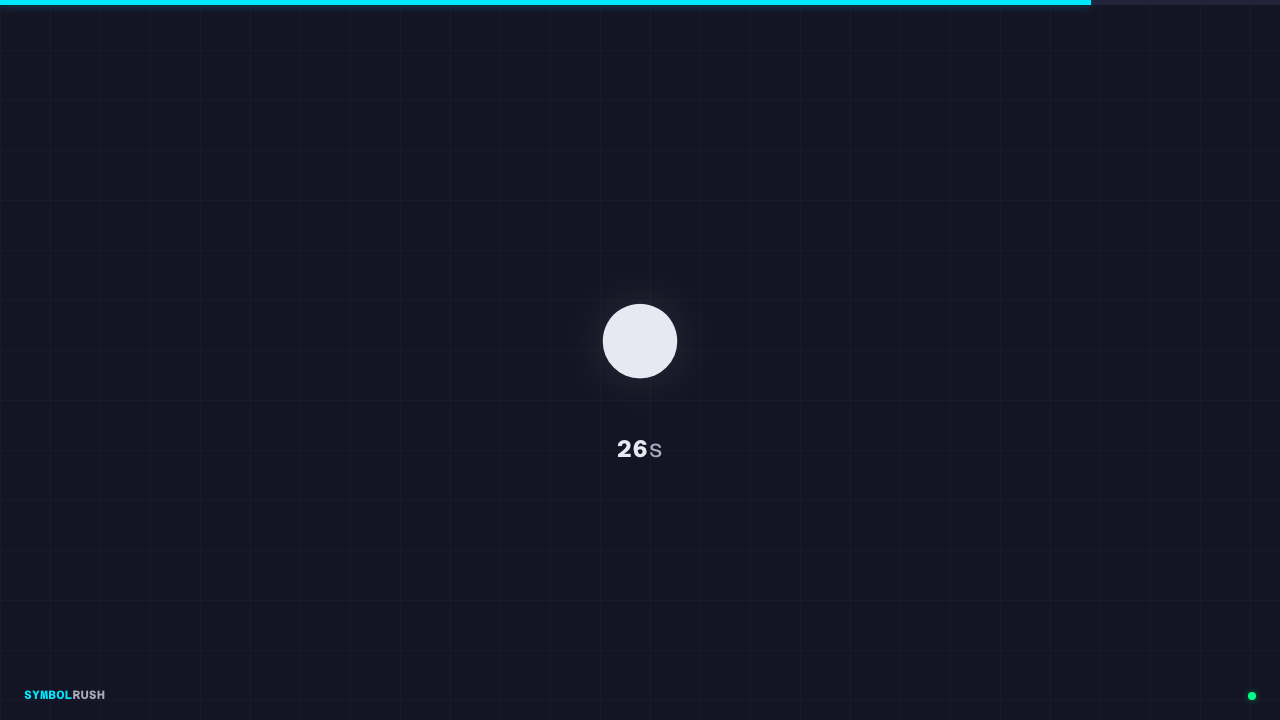
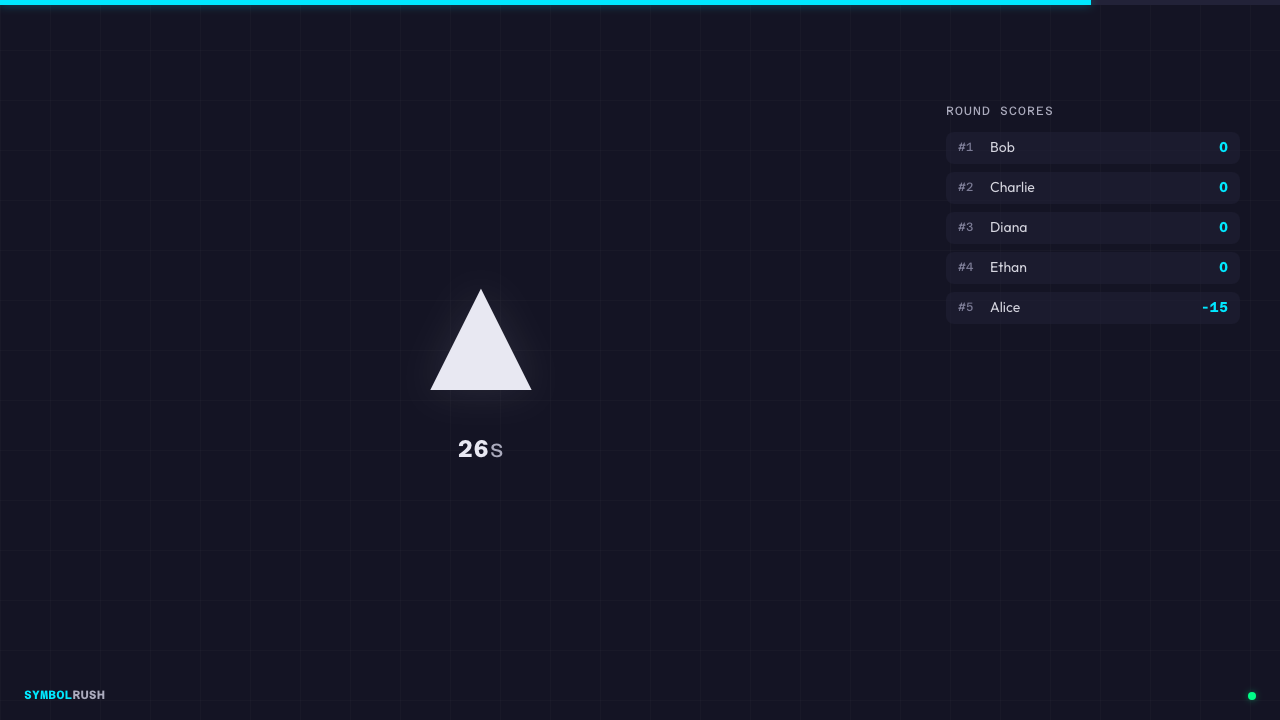
Fix PS sidebar, player grid, adaptive results, host scroll
- PS playing phase: 3/4 + 1/4 layout with live round scores sidebar
  (handles session:scores-update messages)
- Player grid: justify-between layout reduces empty space above buttons
- Player results: adaptive message based on score
  ("Nice run!" / "Warm up round!" / "Keep going!")
- Host panel: collapse Join Link + PS sections during play/results
  to keep controls above the fold
- Update E2E test assertions for adaptive result messages

diff --git a/pages/host/index.vue b/pages/host/index.vue
@@ -158,36 +158,37 @@ useHead({ title: 'Symbol Rush — Host Panel' })
           <GameStatusBanner :status="phase" :round-count="roundCount" />
         </UCard>
 
-        <!-- Join Link -->
-        <UCard variant="subtle" :ui="{ body: 'p-4' }" class="mb-3">
-          <h2 class="text-xs font-semibold text-neutral-300 uppercase tracking-widest mb-3">Join Link</h2>
-          <div class="flex gap-2">
-            <UButton variant="soft" color="neutral" size="sm" icon="i-lucide-copy" @click="copyUrl(joinUrl, 'Join link')">
-              Copy
-            </UButton>
-            <UButton v-if="canShare" variant="soft" color="neutral" size="sm" icon="i-lucide-share" @click="shareUrl(joinUrl, 'Join Symbol Rush', `Join Symbol Rush! Room: ${roomCode}`)">
-              Share
-            </UButton>
-          </div>
-          <p class="font-mono text-xs text-neutral-500 mt-2 break-all">{{ joinUrl }}</p>
-        </UCard>
+        <!-- Join Link + PS (collapsed during play/results) -->
+        <template v-if="phase === 'lobby'">
+          <UCard variant="subtle" :ui="{ body: 'p-4' }" class="mb-3">
+            <h2 class="text-xs font-semibold text-neutral-300 uppercase tracking-widest mb-3">Join Link</h2>
+            <div class="flex gap-2">
+              <UButton variant="soft" color="neutral" size="sm" icon="i-lucide-copy" @click="copyUrl(joinUrl, 'Join link')">
+                Copy
+              </UButton>
+              <UButton v-if="canShare" variant="soft" color="neutral" size="sm" icon="i-lucide-share" @click="shareUrl(joinUrl, 'Join Symbol Rush', `Join Symbol Rush! Room: ${roomCode}`)">
+                Share
+              </UButton>
+            </div>
+            <p class="font-mono text-xs text-neutral-500 mt-2 break-all">{{ joinUrl }}</p>
+          </UCard>
 
-        <!-- Public Screen actions -->
-        <UCard variant="subtle" :ui="{ body: 'p-4' }" class="mb-3">
-          <h2 class="text-xs font-semibold text-neutral-300 uppercase tracking-widest mb-3">Public Screen</h2>
-          <div class="flex gap-2">
-            <UButton variant="soft" color="neutral" size="sm" icon="i-lucide-external-link" @click="openPublicScreen">
-              Open
-            </UButton>
-            <UButton variant="soft" color="neutral" size="sm" icon="i-lucide-copy" @click="copyUrl(psFullUrl, 'PS link')">
-              Copy URL
-            </UButton>
-            <UButton v-if="canShare" variant="soft" color="neutral" size="sm" icon="i-lucide-share" @click="shareUrl(psFullUrl, 'Symbol Rush — Public Screen', `Join Symbol Rush! Room: ${roomCode}`)">
-              Share
-            </UButton>
-          </div>
-          <p class="font-mono text-xs text-neutral-500 mt-2 break-all">{{ psFullUrl }}</p>
-        </UCard>
+          <UCard variant="subtle" :ui="{ body: 'p-4' }" class="mb-3">
+            <h2 class="text-xs font-semibold text-neutral-300 uppercase tracking-widest mb-3">Public Screen</h2>
+            <div class="flex gap-2">
+              <UButton variant="soft" color="neutral" size="sm" icon="i-lucide-external-link" @click="openPublicScreen">
+                Open
+              </UButton>
+              <UButton variant="soft" color="neutral" size="sm" icon="i-lucide-copy" @click="copyUrl(psFullUrl, 'PS link')">
+                Copy URL
+              </UButton>
+              <UButton v-if="canShare" variant="soft" color="neutral" size="sm" icon="i-lucide-share" @click="shareUrl(psFullUrl, 'Symbol Rush — Public Screen', `Join Symbol Rush! Room: ${roomCode}`)">
+                Share
+              </UButton>
+            </div>
+            <p class="font-mono text-xs text-neutral-500 mt-2 break-all">{{ psFullUrl }}</p>
+          </UCard>
+        </template>
 
         <!-- Players -->
         <UCard variant="subtle" :ui="{ body: 'p-4' }" class="mb-3">

diff --git a/pages/ps/[roomCode].vue b/pages/ps/[roomCode].vue
@@ -15,6 +15,7 @@ const currentSymbol = ref<Symbol | null>(null)
 const timeRemainingMs = ref(30_000)
 const sessionDuration = ref(30_000)
 const sessionScores = ref<SessionScore[]>([])
+const roundScores = ref<SessionScore[]>([])
 const leaderboard = ref<LeaderboardEntry[]>([])
 const recentJoins = ref<Array<{ id: string; username: string; ts: number }>>([])
 
@@ -77,9 +78,15 @@ on('room:player-left', (msg) => {
 on('session:started', (msg) => {
   if (msg.type !== 'session:started') return
   stopCountdown()
+  roundScores.value = []
   phase.value = 'playing'
   sessionDuration.value = msg.endsAt - Date.now()
   timeRemainingMs.value = sessionDuration.value
+})
+
+on('session:scores-update', (msg) => {
+  if (msg.type !== 'session:scores-update') return
+  roundScores.value = msg.scores
 })
 
 on('session:symbol-change', (msg) => {
@@ -165,21 +172,39 @@ useHead({
     </div>
 
     <!-- Playing -->
-    <div v-else-if="phase === 'playing'" class="min-h-dvh flex flex-col items-center justify-center gap-5 relative z-1">
-      <div class="flex items-center justify-center">
-        <Transition name="symbol" mode="out-in">
-          <span
-            :key="currentSymbol"
-            class="font-mono text-[clamp(80px,20vw,160px)] leading-none text-neutral-100"
-            style="text-shadow: 0 0 40px rgba(255,255,255,0.1)"
-          >
-            {{ currentSymbol }}
-          </span>
-        </Transition>
+    <div v-else-if="phase === 'playing'" class="min-h-dvh grid grid-cols-[3fr_1fr] relative z-1 p-10 gap-6">
+      <!-- Symbol (3/4) -->
+      <div class="flex flex-col items-center justify-center gap-5">
+        <div class="flex items-center justify-center">
+          <Transition name="symbol" mode="out-in">
+            <span
+              :key="currentSymbol"
+              class="font-mono text-[clamp(80px,20vw,160px)] leading-none text-neutral-100"
+              style="text-shadow: 0 0 40px rgba(255,255,255,0.1)"
+            >
+              {{ currentSymbol }}
+            </span>
+          </Transition>
+        </div>
+        <p class="font-mono text-2xl text-neutral-300">
+          <span class="font-bold text-neutral-100">{{ secondsRemaining }}</span>s
+        </p>
       </div>
-      <p class="font-mono text-2xl text-neutral-300">
-        <span class="font-bold text-neutral-100">{{ secondsRemaining }}</span>s
-      </p>
+
+      <!-- Live round scores sidebar (1/4) -->
+      <div class="flex flex-col gap-2 pt-16 self-start overflow-y-auto max-h-[calc(100dvh-80px)]">
+        <h3 class="font-mono text-xs text-neutral-300 uppercase tracking-widest mb-1">Round Scores</h3>
+        <div
+          v-for="(s, i) in roundScores"
+          :key="s.playerId"
+          class="flex items-center gap-2 px-3 py-1.5 bg-neutral-800/50 rounded-lg text-sm"
+        >
+          <span class="font-mono text-xs text-neutral-400 min-w-[24px]">#{{ i + 1 }}</span>
+          <span class="flex-1 truncate">{{ s.username }}</span>
+          <span class="font-mono font-bold text-primary text-sm">{{ s.score }}</span>
+        </div>
+        <p v-if="roundScores.length === 0" class="text-sm text-neutral-400">Waiting for taps...</p>
+      </div>
     </div>
 
     <!-- Results -->

diff --git a/pages/play/[roomCode].vue b/pages/play/[roomCode].vue
@@ -133,17 +133,17 @@ useHead({
     </div>
 
     <!-- Playing -->
-    <div v-else-if="phase === 'playing'" class="min-h-dvh flex flex-col items-center pt-6 px-6 relative z-1 gap-4">
+    <div v-else-if="phase === 'playing'" class="min-h-dvh flex flex-col items-center justify-between pt-6 pb-16 px-6 relative z-1">
       <div class="w-full flex justify-between items-center px-1">
         <span class="font-mono text-neutral-300">{{ secondsRemaining }}s</span>
         <ScoreDisplay ref="scoreDisplayRef" :score="score" />
       </div>
-      <p class="font-mono text-neutral-300 text-xs uppercase tracking-widest">
+      <p class="font-mono text-neutral-300 text-xs uppercase tracking-widest mt-4">
         TAP THE SYMBOL ON SCREEN!
       </p>
       <SymbolGrid
         :symbols="symbolChoices"
-        class="mt-auto mb-auto"
+        class="my-auto"
         @tap="handleTap"
       />
     </div>
@@ -151,7 +151,9 @@ useHead({
     <!-- Results -->
     <div v-else-if="phase === 'results'" class="min-h-dvh flex flex-col items-center justify-center p-6 relative z-1 gap-4">
       <p class="font-mono text-neutral-300 text-xs uppercase tracking-widest">Round over</p>
-      <h1 class="font-mono font-black text-3xl text-primary">Nice run!</h1>
+      <h1 class="font-mono font-black text-3xl text-primary">
+        {{ roundScore > 0 ? 'Nice run!' : roundScore === 0 ? 'Warm up round!' : 'Keep going!' }}
+      </h1>
       <div class="flex gap-4 w-full max-w-[340px]">
         <UCard variant="subtle" :ui="{ body: 'p-4 text-center' }" class="flex-1">
           <span class="text-xs text-neutral-300 block mb-1">Round Score</span>

diff --git a/tests/e2e/game-flow.spec.ts b/tests/e2e/game-flow.spec.ts
@@ -189,7 +189,7 @@ test.describe('Symbol Rush — Full Game Flow', () => {
   })
 
   test('15 — Player sees results', async () => {
-    await expect(playerPage.locator('text=Nice run')).toBeVisible({ timeout: 5000 })
+    await expect(playerPage.locator('text=/Nice run|Keep going|Warm up/')).toBeVisible({ timeout: 5000 })
     await screenshot(playerPage, '18-player-results')
   })
 
@@ -228,7 +228,7 @@ test.describe('Symbol Rush — Full Game Flow', () => {
     await psPage.waitForTimeout(1000)
     await screenshot(psPage, '24-ps-round-2-results')
 
-    await expect(playerPage.locator('text=Nice run')).toBeVisible({ timeout: 5000 })
+    await expect(playerPage.locator('text=/Nice run|Keep going|Warm up/')).toBeVisible({ timeout: 5000 })
     await screenshot(playerPage, '25-player-round-2-results')
   })
 })
